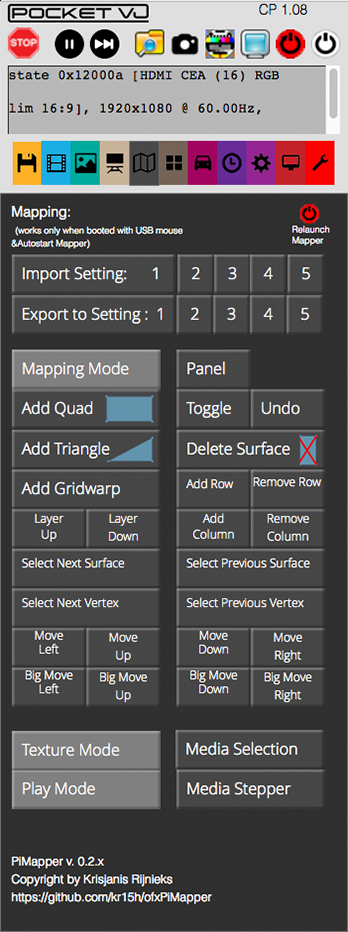
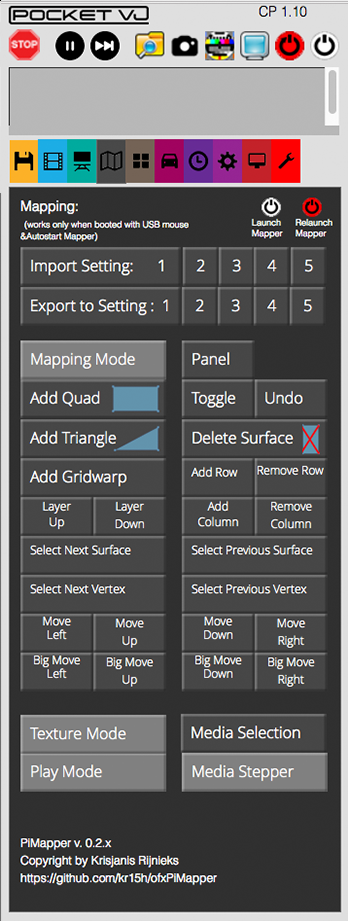
updated mapper image & backend

diff --git a/backend.php b/backend.php
@@ -1457,7 +1457,7 @@ if ($_GET['action'] == 'piwall_masterloop') {
 //# Stream Audio from ALSA to Janus server only available in PocketVJ 3.2
 //# might not work when usb soundcard is connected, due indexing of devices, loopback must be device 2
 //# check with cat /proc/asound/modules
-//# Access with link: http://192.168.2.100/streamer/streamingtest.html
+//# Access with link: http://192.168.2.100/streamer/index.html
 
 if ($_GET['action'] == 'audiostream') {
 	$outputtext =  "start video master loop and send audio to server";
@@ -1466,6 +1466,23 @@ if ($_GET['action'] == 'audiostream') {
 	system("sudo /usr/bin/omxplayer-sync -mu -o alsa:hw:1,1 /media/internal/video/* &");
 	system("sudo gst-launch-1.0 -v alsasrc device=plughw:1,0 ! audioconvert ! audioresample ! opusenc ! rtpopuspay ! udpsink host=127.0.0.1 port=8005 > /dev/null &");
 }
+
+if ($_GET['action'] == 'audiostreamslave') {
+	$outputtext =  "start video slave loop and send audio to server";
+	system("sudo modprobe snd-aloop > /dev/null &");
+	system("sudo /opt/janus/bin/janus -F /opt/janus/etc/janus > /dev/null &");
+	system("sudo /usr/bin/omxplayer-sync -lu -o alsa:hw:1,1 /media/internal/video/* &");
+	system("sudo gst-launch-1.0 -v alsasrc device=plughw:1,0 ! audioconvert ! audioresample ! opusenc ! rtpopuspay ! udpsink host=127.0.0.1 port=8005 > /dev/null &");
+}
+
+if ($_GET['action'] == 'audiostreamseamless') {
+	$outputtext =  "start video seamless e loop and send audio to server";
+	system("sudo modprobe snd-aloop > /dev/null &");
+	system("sudo /opt/janus/bin/janus -F /opt/janus/etc/janus > /dev/null &");
+	system("sudo /usr/bin/omxplayer --loop --no-osd -o alsa:hw:1,1 /media/internal/video/* > /dev/null 2>&1 & echo $! &");
+	system("sudo gst-launch-1.0 -v alsasrc device=plughw:1,0 ! audioconvert ! audioresample ! opusenc ! rtpopuspay ! udpsink host=127.0.0.1 port=8005 > /dev/null &");
+}
+
 
 if ($_GET['action'] == 'audiostreamstop') {
 	$outputtext =  "stop video master loop and stop audio server";
